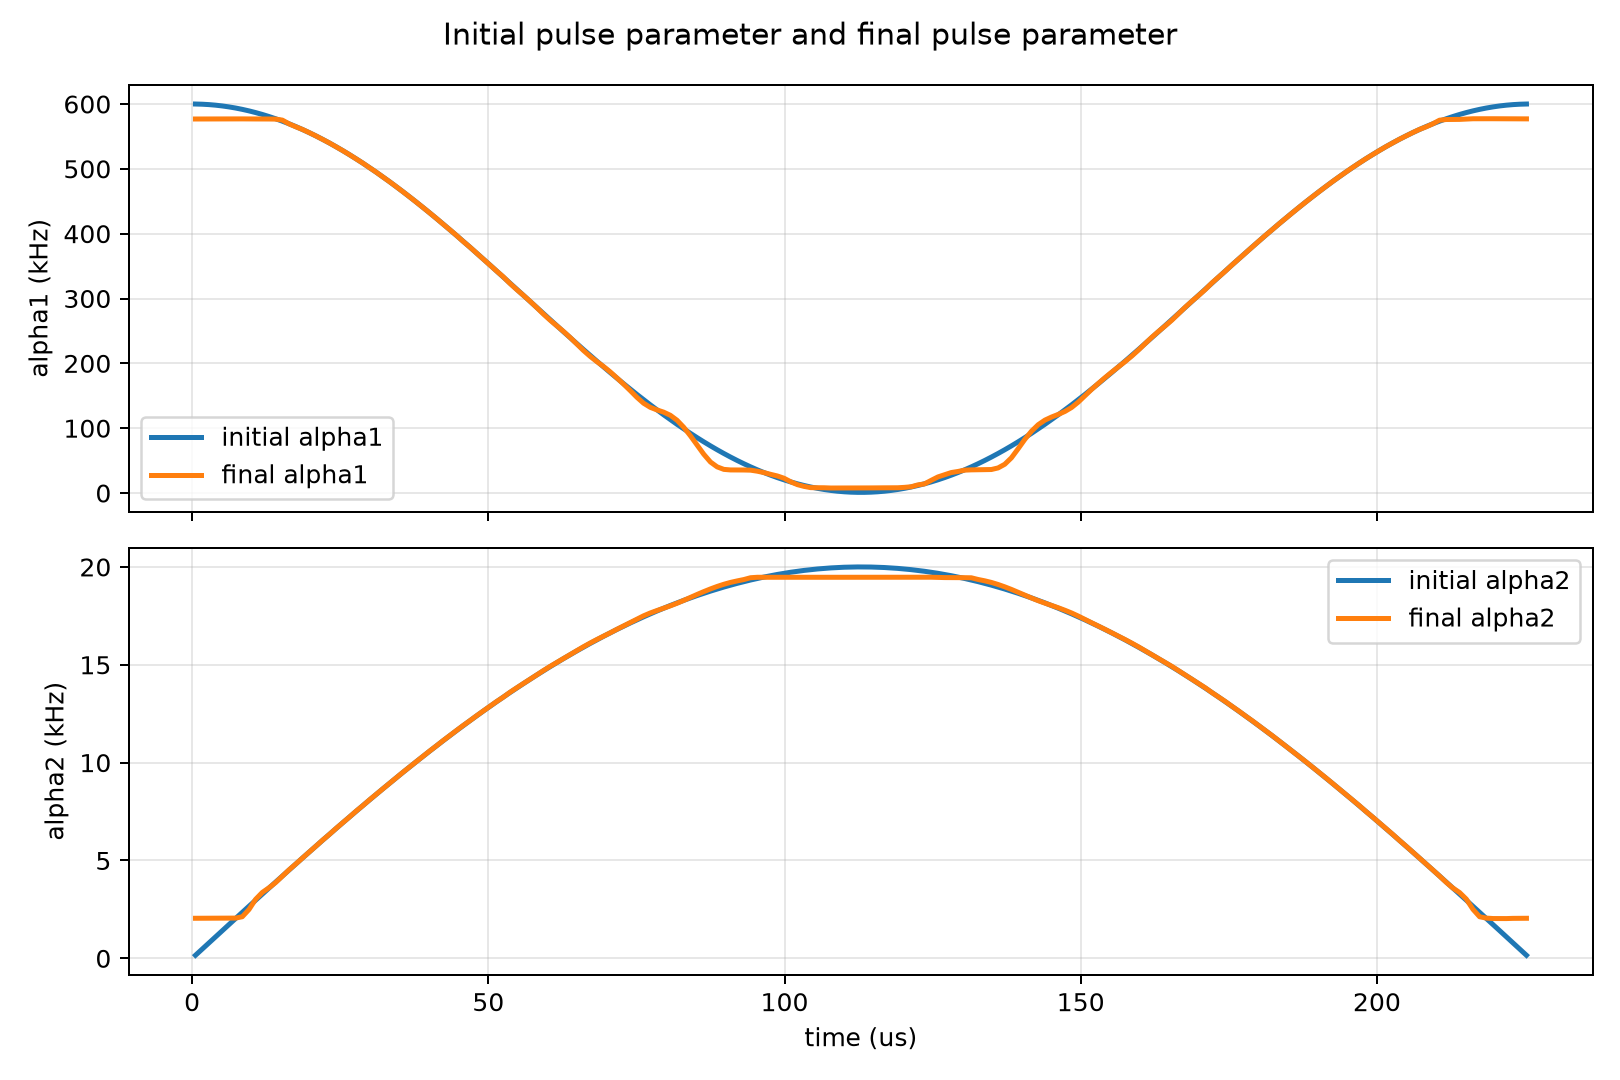
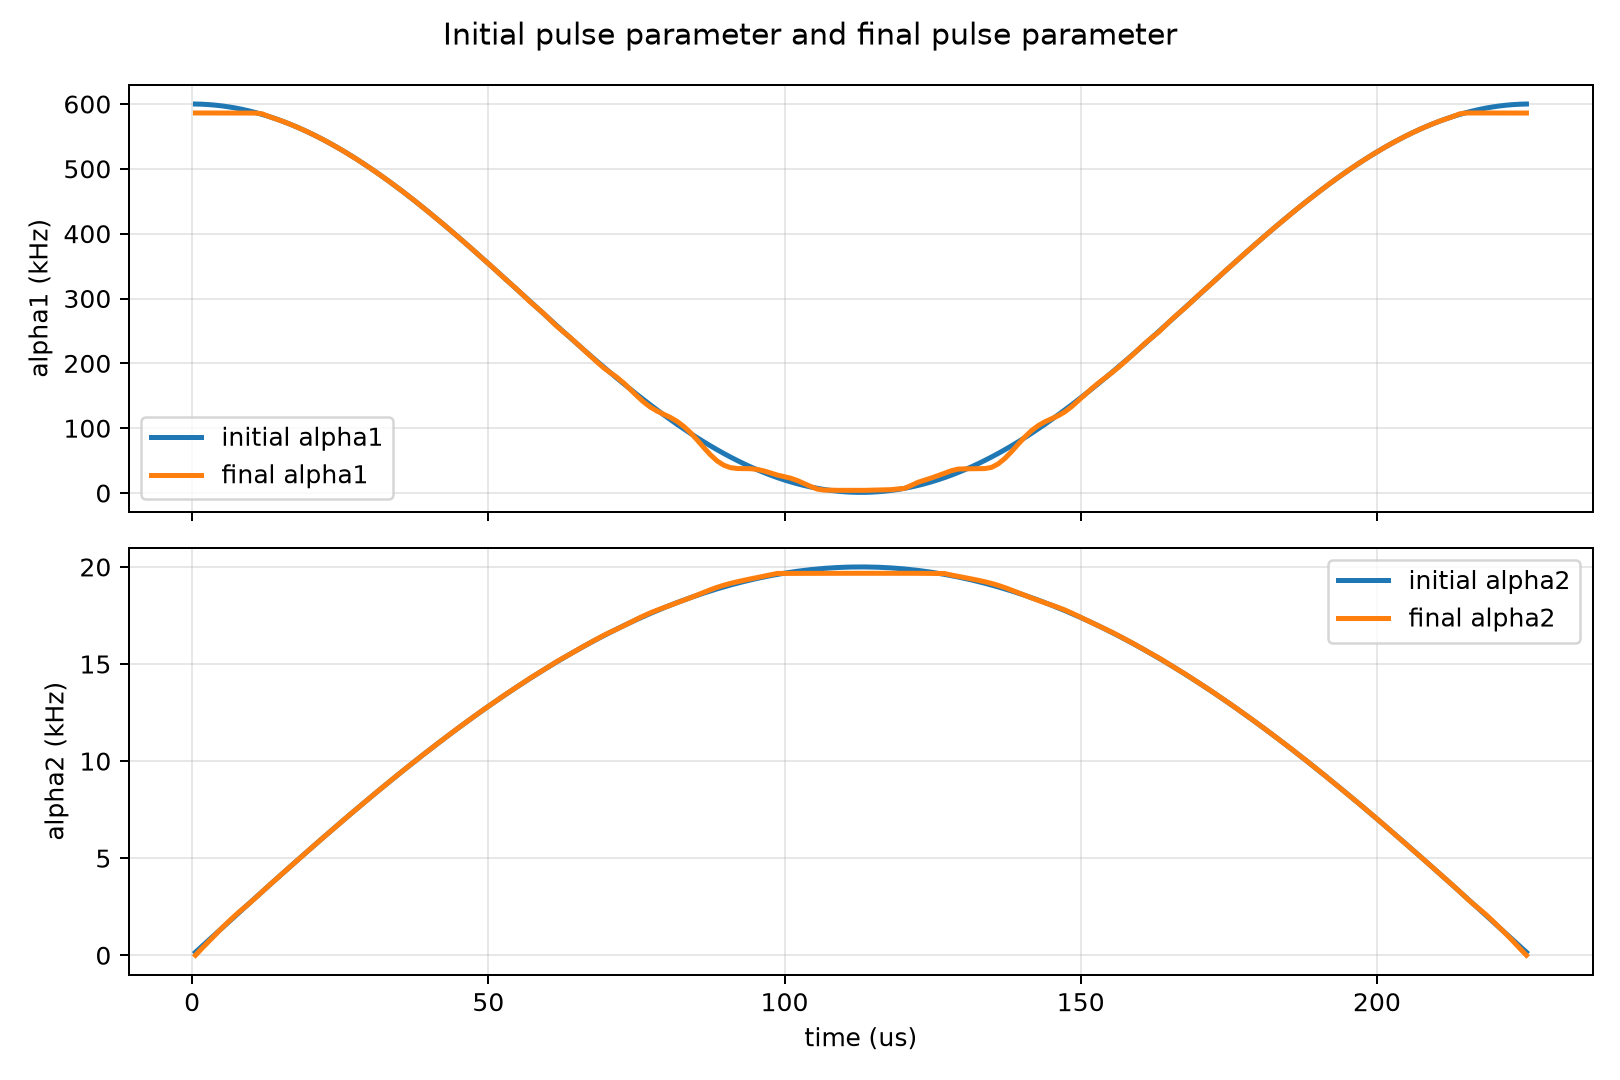
Enforce zero alpha2 endpoints in spin-boson optimization

diff --git a/experiments/spin_boson_lbfgsb.py b/experiments/spin_boson_lbfgsb.py
@@ -56,6 +56,39 @@ def ms_bell_target_motion_ground(n_levels):
     return target
 
 
+class Alpha2EndpointZeroParameterization:
+    def __init__(self, base):
+        self.base = base
+
+    def to_physical(self, normalized):
+        amplitudes = self.base.to_physical(normalized)
+        amplitudes[[0, -1], 1] = 0.0
+        return amplitudes
+
+    def to_parameters(self, amplitudes):
+        parameters = self.base.to_parameters(amplitudes)
+        lower, upper = self.base._bounds_for(amplitudes.shape)
+        parameters[[0, -1], 1] = self._normalized_zero(lower[[0, -1], 1], upper[[0, -1], 1])
+        return parameters
+
+    def pullback_gradient(self, physical_gradient):
+        gradient = self.base.pullback_gradient(physical_gradient)
+        gradient[[0, -1], 1] = 0.0
+        return gradient
+
+    def parameter_bounds(self, shape):
+        bounds = self.base.parameter_bounds(shape)
+        lower, upper = self.base._bounds_for(shape)
+        endpoint_value = self._normalized_zero(lower[[0, -1], 1], upper[[0, -1], 1])
+        for row, value in zip((0, shape[0] - 1), endpoint_value):
+            bounds[np.ravel_multi_index((row, 1), shape)] = (float(value), float(value))
+        return bounds
+
+    @staticmethod
+    def _normalized_zero(lower, upper):
+        return (0.0 - 0.5 * (upper + lower)) / (0.5 * (upper - lower))
+
+
 def parse_args():
     parser = argparse.ArgumentParser(description="Run spin-boson L-BFGS-B experiment.")
     parser.add_argument("--maxiter", type=int, default=MAXITER)
@@ -153,7 +186,9 @@ def main():
     args = parse_args()
     system = spin_boson_control_system(n_levels=N_LEVELS, phi_s=0.0)
     initial_pulse = spin_boson_initial_pulse(alpha1_cycles=args.alpha1_cycles)
-    parameterization = spin_boson_parameterization(initial_pulse.n_steps)
+    parameterization = Alpha2EndpointZeroParameterization(
+        spin_boson_parameterization(initial_pulse.n_steps)
+    )
     dimension = 4 * N_LEVELS
     context = EvolutionContext(
         initial_state=basis_state(0, dimension),
@@ -210,8 +245,13 @@ def main():
     )
     final_objective = penalized_problem.value(final_parameters)
 
-    lower = np.broadcast_to(parameterization.lower, final_pulse.amplitudes.shape)
-    upper = np.broadcast_to(parameterization.upper, final_pulse.amplitudes.shape)
+    masked_initial_pulse = penalized_problem.pulse_from_parameters(initial_parameters)
+    if not np.allclose(masked_initial_pulse.amplitudes[[0, -1], 1], 0.0):
+        raise RuntimeError("Initial alpha2 endpoints are not masked to zero.")
+    if not np.allclose(final_pulse.amplitudes[[0, -1], 1], 0.0):
+        raise RuntimeError("Optimized alpha2 endpoints are not masked to zero.")
+
+    lower, upper = parameterization.base._bounds_for(final_pulse.amplitudes.shape)
     if np.any(final_pulse.amplitudes < lower) or np.any(final_pulse.amplitudes > upper):
         raise RuntimeError("Optimized pulse violates amplitude bounds.")
 